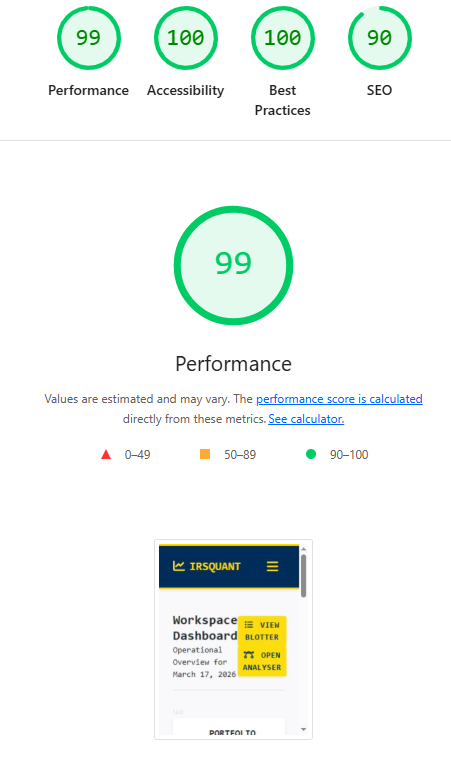
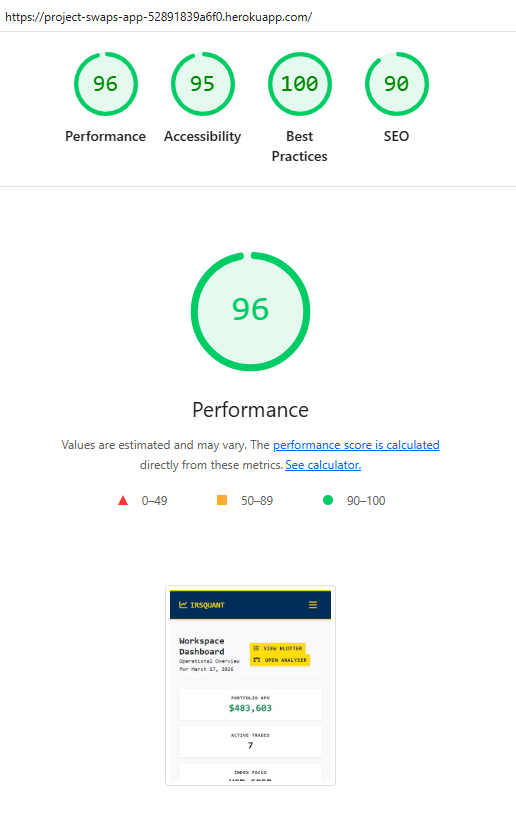
Add Edd/delete heading to blotter

diff --git a/workspace/templates/workspace/blotter.html b/workspace/templates/workspace/blotter.html
@@ -33,6 +33,7 @@
                                 <th class="py-3 text-uppercase small fw-bold text-end" style="letter-spacing: 0.5px; font-size: 0.7rem;">Notional</th>
                                 <th class="py-3 text-uppercase small fw-bold text-end" style="letter-spacing: 0.5px; font-size: 0.7rem;">Rate</th>
                                 <th class="py-3 text-uppercase small fw-bold text-end" style="letter-spacing: 0.5px; font-size: 0.7rem;">NPV ($)</th>
+                                <th class="py-3 text-uppercase small fw-bold text-end" style="letter-spacing: 0.5px; font-size: 0.7rem;">Edit/Delete</th>                                
                                 <th class="pe-4 py-3 text-end"></th>
                             </tr>
                         </thead>

diff --git a/TESTING.md b/TESTING.md
@@ -68,9 +68,8 @@ I have strived to fix all Python lines that are too long (>80 characters). In so
 
 | Directory | File | URL | Screenshot | Status | Notes |
 | --- | --- | --- | --- | --- | --- |
-|  | [generate_bgdata.py](https://github.com/DavidClamp/project-swaps/blob/main/generate_bgdata.py) | [PEP8 CI Link](https://pep8ci.herokuapp.com/https://raw.githubusercontent.com/DavidClamp/project-swaps/main/generate_bgdata.py) | ![screenshot](documentation/validation/py--generate_bgdata.png) | ✅ PASS |  100% Compliance. |
-|  | [import_bgdata.py](https://github.com/DavidClamp/project-swaps/blob/main/import_bgdata.py) | [PEP8 CI Link](https://pep8ci.herokuapp.com/https://raw.githubusercontent.com/DavidClamp/project-swaps/main/import_bgdata.py) | ![screenshot](documentation/validation/py--import_bgdata.png) | ⚠️ Notes (if applicable) |
-|  | [manage.py](https://github.com/DavidClamp/project-swaps/blob/main/manage.py) | [PEP8 CI Link](https://pep8ci.herokuapp.com/https://raw.githubusercontent.com/DavidClamp/project-swaps/main/manage.py) | ![screenshot](documentation/validation/py--manage.png) | ⚠️ Notes (if applicable) |
+| 
+| Root | [manage.py](https://github.com/DavidClamp/project-swaps/blob/main/manage.py) | [PEP8 CI Link](https://pep8ci.herokuapp.com/https://raw.githubusercontent.com/DavidClamp/project-swaps/main/manage.py) | ![screenshot](documentation/validation/py--manage.png) | ⚠️ Notes (if applicable) |
 | swapanalyser | [settings.py](https://github.com/DavidClamp/project-swaps/blob/main/swapanalyser/settings.py) | [PEP8 CI Link](https://pep8ci.herokuapp.com/https://raw.githubusercontent.com/DavidClamp/project-swaps/main/swapanalyser/settings.py) | ![screenshot](documentation/validation/py-swapanalyser-settings.png) | Ignored "Line too long" for AUTH_PASSWORD_VALIDATORS (Standard Django Exception). |
 | swapanalyser | [urls.py](https://github.com/DavidClamp/project-swaps/blob/main/swapanalyser/urls.py) | [PEP8 CI Link](https://pep8ci.herokuapp.com/https://raw.githubusercontent.com/DavidClamp/project-swaps/main/swapanalyser/urls.py) | ![screenshot](documentation/validation/py-swapanalyser-urls.png) | ⚠️ Notes (if applicable) |
 | workspace | [admin.py](https://github.com/DavidClamp/project-swaps/blob/main/workspace/admin.py) | [PEP8 CI Link](https://pep8ci.herokuapp.com/https://raw.githubusercontent.com/DavidClamp/project-swaps/main/workspace/admin.py) | ![screenshot](documentation/validation/py-workspace-admin.png) | ⚠️ Notes (if applicable) |
@@ -179,13 +178,14 @@ I've tested my deployed project using the Lighthouse Audit tool to check for any
 
 | Page | Mobile | Desktop |
 | --- | --- | --- |
-| Register | ![screenshot](documentation/lighthouse/mobile-register.png) | ![screenshot](documentation/lighthouse/desktop-register.png) |
-| Login | ![screenshot](documentation/lighthouse/mobile-login.png) | ![screenshot](documentation/lighthouse/desktop-login.png) |
+| Register | ![screenshot](documentation/lighthouse/mobile_login.png) | ![screenshot](documentation/lighthouse/desktop_login.png) |
+| Login | ![screenshot](documentation/lighthouse/mobile_login.png) | ![screenshot](documentation/lighthouse/desktop_login.png) |
+| Logout| ![screenshot](documentation/lighthouse/mobile_signout.png) | ![screenshot](documentation/lighthouse/desktop_signout.png) |
 | Dashboard |[screenshot](documentation/lighthouse/mobile-profile.png) | ![screenshot](documentation/lighthouse/desktop-profile.png) |
 | Blotter | ![screenshot](documentation/lighthouse/mobile-home.png) | ![screenshot](documentation/lighthouse/desktop-home.png) |
 | Analyser | ![screenshot](documentation/lighthouse/mobile-products.png) | ![screenshot](documentation/lighthouse/desktop-products.png) |
-| Product Details | ![screenshot](documentation/lighthouse/mobile-product-details.png) | ![screenshot](documentation/lighthouse/desktop-product-details.png) |
-| Term Structure | ![screenshot](documentation/lighthouse/mobile-bag.png) | ![screenshot](documentation/lighthouse/desktop-bag.png) |
+| Term Structure | ![screenshot](documentation/lighthouse/mobile-product-details.png) | ![screenshot](documentation/lighthouse/desktop-product-details.png) |
+| Rate History | ![screenshot](documentation/lighthouse/mobile-bag.png) | ![screenshot](documentation/lighthouse/desktop-bag.png) |
 | Add Trade | ![screenshot](documentation/lighthouse/mobile-checkout.png) | ![screenshot](documentation/lighthouse/desktop-checkout.png) |
 | 404 | ![screenshot](documentation/lighthouse/mobile-404.png) | ![screenshot](documentation/lighthouse/desktop-404.png) |
 | 500 | ![screenshot](documentation/lighthouse/mobile-404.png) | ![screenshot](documentation/lighthouse/desktop-404.png) |